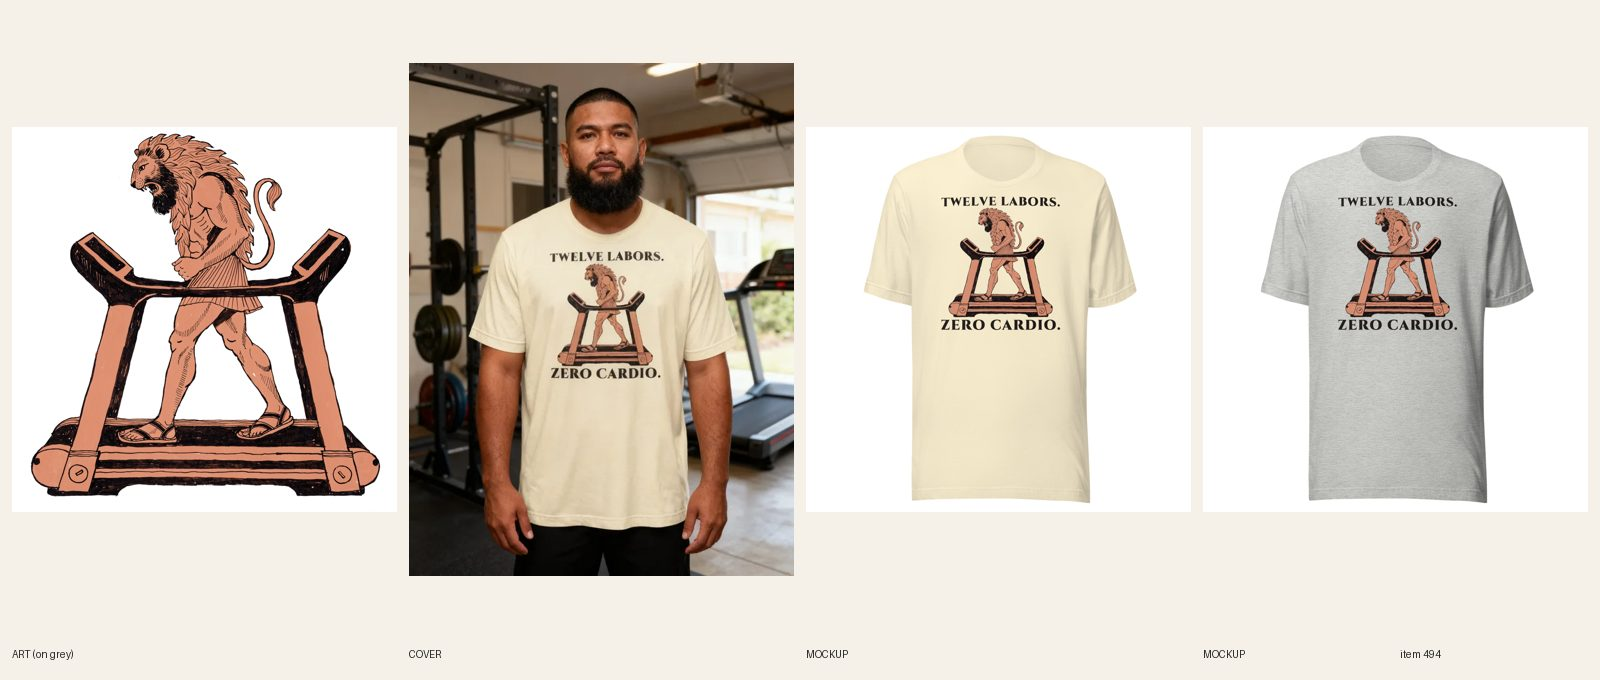
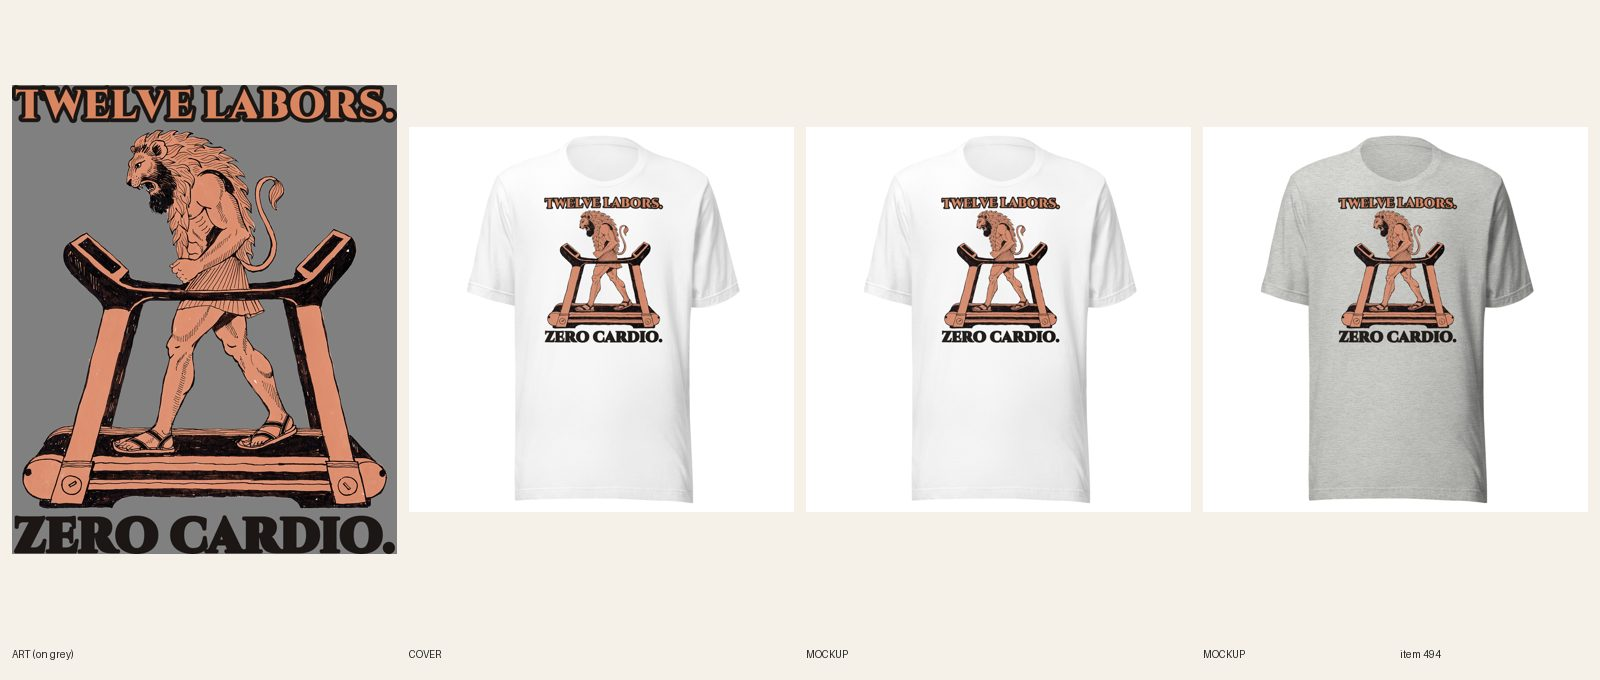
[E] review 494 Twelve Labors tee (type redo)
Claude-Session: https://claude.ai/code/session_01MqPnjqhWFzdagEwrxW6NoJ

diff --git a/docs/pipeline/494-gym-tee-twelve-labors-zero-cardio.md b/docs/pipeline/494-gym-tee-twelve-labors-zero-cardio.md
@@ -1,4 +1,4 @@
-status: BUILDING E 2026-10-19 17:16
+status: REVIEW
 lane: E
 type: new
 id: 494
@@ -31,3 +31,4 @@ kd: 34
 - 2026-10-18 02:10 UTC builder [E]: REVIEW. Art: 3 Recraft tries ($0.12 total): try 1 treadmill + lion-cloaked hero with the lion head hiding his face (kept: clearest treadmill silhouette, terracotta and black), try 2 had a clear weary human face but a skateboard instead of a treadmill, try 3 the lion head again with a better treadmill. Director: the hero's 'betrayed' face never read; the words and lion skin carry Hercules. TWELVE LABORS. / ZERO CARDIO. in Cinzel 900 #1c1714 via compose-print, white gaps between legs and treadmill knocked out (knock-white, 3 components), dark ink on light colors only (Natural, Heather Dust, White, Ash, Athletic Heather; no dark colors offered). Print 10.9 x 12.2 in, FW 1650 TOP 75. DRAFT gid 15364343791920 (category aa-1-13-8, 35 variants $24.99, compare-at null, tags per brief, keyword hercules shirt 590/34 in line one and meta, 5 FAQs 46-52 words incl. Dec 8). Printful file via b-go, sync 35/35, mockup per color + back attached and linked. Phone-size read on Athletic Heather (darkest): both lines legible. Cover registry 820 try 1: Natural tee, all words read, hands at sides, nothing over the print. Variant-photo audit clean; audit --handle only 'not visible'. fal ~$0.2.
 - 2026-10-18 01:19 UTC director: LIVE. The lion-skin hero reads as Hercules with the words; woodcut finish holds the floor; 3 art tries used, so no more art on this one. ACTIVE + Online Store/Headless/Google & YouTube, audit PASS 0 warn.
 - 2026-10-18 17:22 UTC director: QUALITY RESET grade B (type only), REDO. The product stays ACTIVE (same handle, URL, title keyword). Keep the line "TWELVE LABORS. / ZERO CARDIO." and the art. 1. Type: No type in art file; small thin black serif bars about 70% width, colors not from art. 2. Quality reset type bar (docs/backlog/quality-reset.md, 'The new bar'): headline at least 90% of the art width, heavy, colors pulled from the art; second line at least 45% of the headline's height, never a thin script on a dark or mid garment; use the lettering as a shape (arch, stacked lockup, words breaking into the art), not a plain bar above and a script line below; no font used on more than 1 in 6 of the last 30 designs. 3. New print file means a new cover per R6.10 and a fresh review sheet (R7.7). While quality-reset.md says PAUSED, only lane A builds, and only the samples step 2 names.
+- 2026-10-19 17:28 UTC builder [E]: REDO type-only done. Same art (old thin black Cinzel bars cropped off), new lockup designs/e494/spec.json: TWELVE LABORS. terracotta #d98560 Cinzel 900 with dark keyline at ~86% canvas width, ZERO CARDIO. dark #1c1714 Cinzel 900 same width (headline and second line both full art width); 3 white gaps knocked out. Print 3036 x 3700, Printful file 1089692541, FW 1650 TOP 75, resynced 35/35 (back logo kept). 5 fronts replaced in place in Shopify (back unchanged). Light-file check: all 5 colors are light, dark-ink file is the only file needed. Cover: plain product shot (handle added to retired-covers.json). Phone-size read on Athletic Heather: both lines clear. Copy unchanged. Audit PASS 0 warn, design-crops rerun. fal $0. Sheet docs/review/494.jpg. REVIEW.

diff --git a/docs/intake-log.md b/docs/intake-log.md
@@ -1,5 +1,5 @@
-RUNNING lane E since 2026-10-19 17:16 UTC
 RUNNING director since 2026-10-19 17:13 UTC
+2026-10-19 17:28 UTC — [E] Builder run: redid #494 Twelve Labors tee (type only: heavy Cinzel 900 terracotta/dark lockup at full art width, same art, FW 1650, 35/35 resynced, 5 fronts replaced in place, plain product shot). REVIEW. fal $0. 1 redo per run cap reached. Lock released.
 RUNNING lane A since 2026-10-19 17:01 UTC
 2026-10-19 16:57 UTC — [C] Builder run: redid #441 Eight Arms oversized hoodie again (director R5.3.8: separate navy-headline Dust file 1089678989, Dust 6/6 relinked, Dust front replaced in place, Navy unchanged). REVIEW. fal $0. 1 redo per run cap reached. Lock released.
 2026-10-19 16:47 UTC — [H] Helper run: Telegram inbox empty (getUpdates returned 0 updates; nothing to consume, no pause or resume). Audit (598 live products): 0 errors, 30 warnings left alone (polish). Price errors 0, so the announcement bar already carries the holiday line. Category check: 0 products without a category. Site check: 3 newest LIVE pages (womens-cat-making-biscuits-hoodie, unisex-national-park-switchbacks-build-character-heavyweight-hoodie, unisex-christmas-card-photo-survivor-graphic-tee) return 200. Stuck work: none (one BUILDING item, #557 from 16:46; all lane locks under 2 hours). Daily summary not due (sent 16:05). Installed node_modules with npm ci so the audit could run. Lock released.
